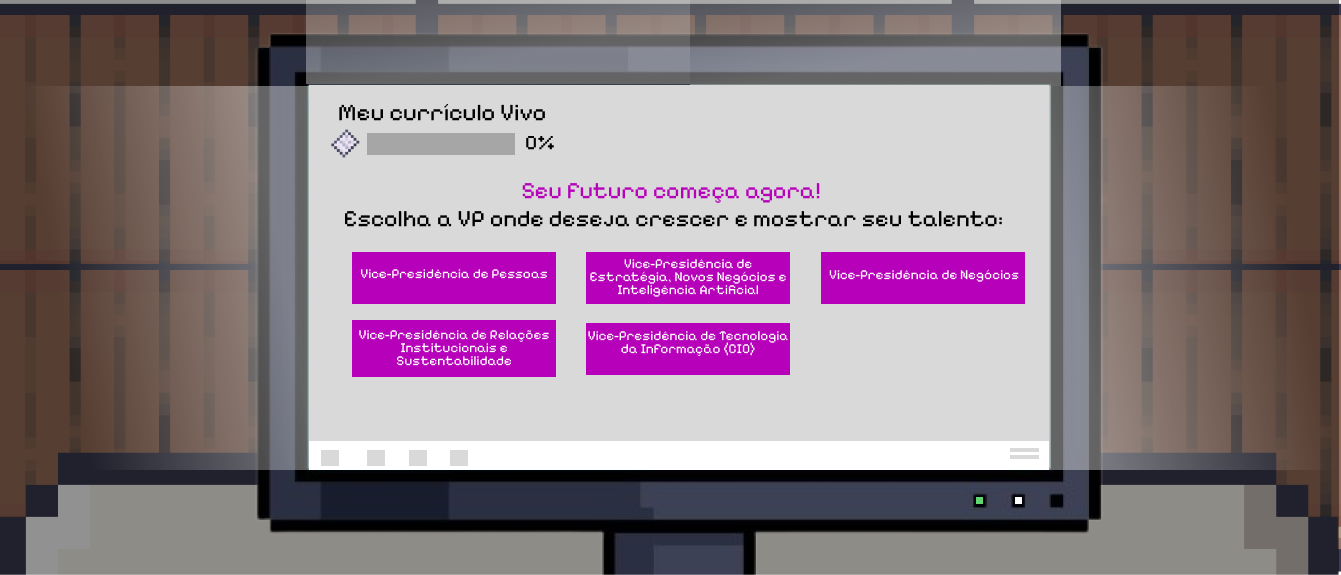
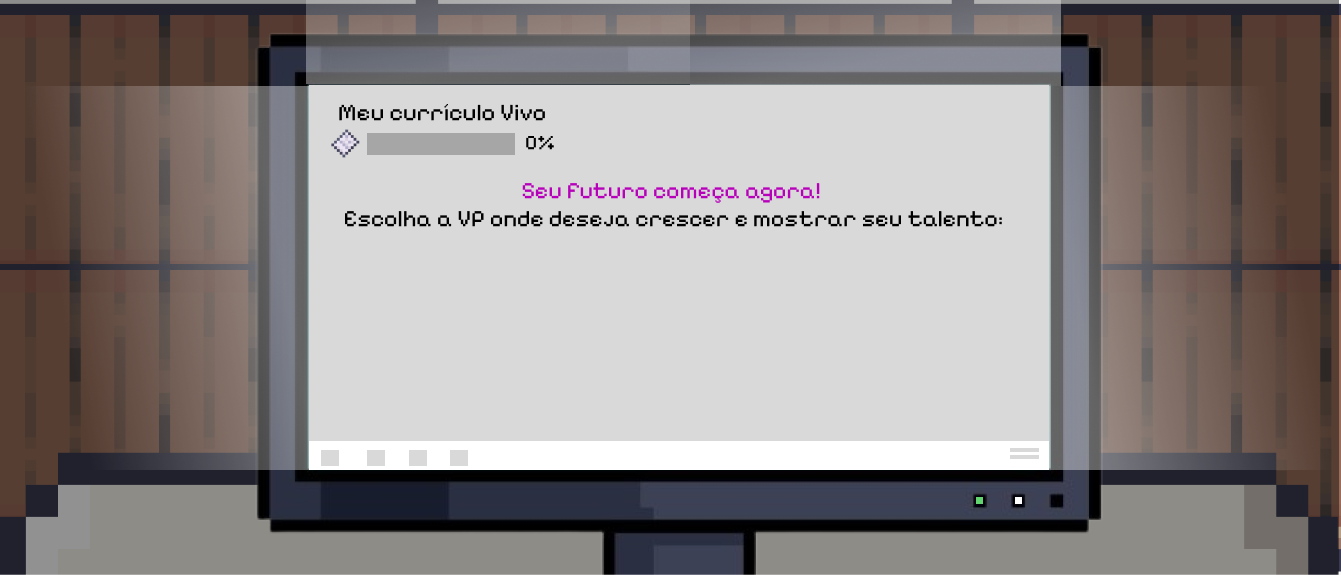
inicio minigame curriculo (transiçao)

Changed region(s): [[0.2446, 0.4139, 0.7644, 0.68]]

diff --git a/src/officeScene.js b/src/officeScene.js
@@ -235,9 +235,7 @@ class OfficeScene extends Phaser.Scene {
 
   showComputerScreen() {
     // Mostrar a tela do computador
-    this.telaComputador.setVisible(true);
-    this.player.setVisible(false);
-    this.computador.setVisible(false);
+    this.scene.switch('curriculoScene');
   }
 }
 
